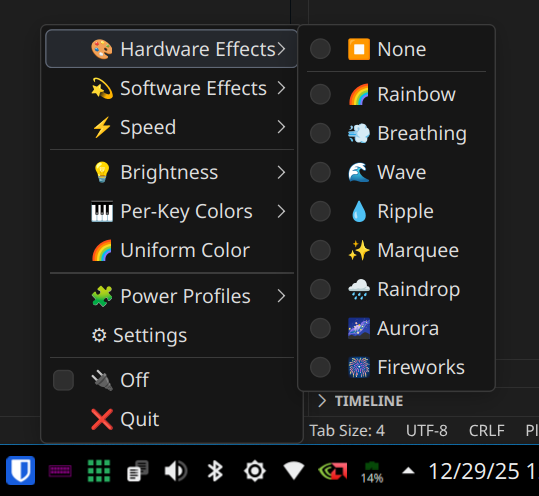
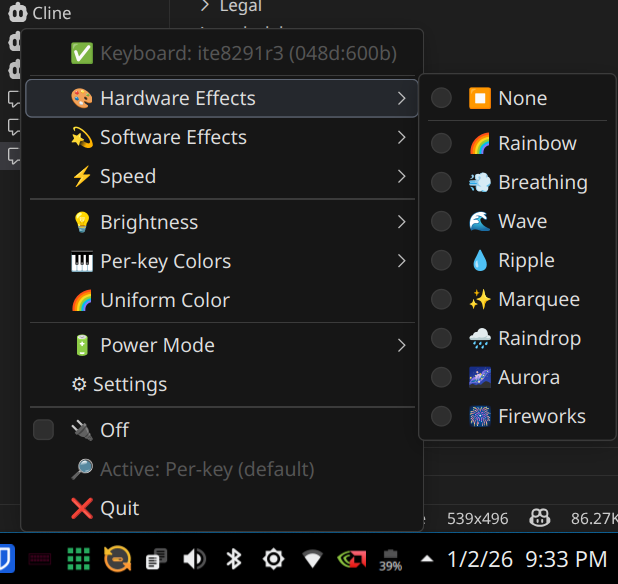
Docs: refresh README and screenshots

diff --git a/README.md b/README.md
@@ -7,14 +7,7 @@ It supports multiple backends:
 - **USB (ITE 8291 / ITE8291R3 family)** on many TongFang rebrands (often per-key RGB).
 - **Sysfs LED backlight devices** (brightness-only or RGB, depending on what your kernel exposes).
 
-It focuses on being practical:
-
-- System tray controls (effects, brightness, speed, off)
-- Per-key coloring with a visual layout overlay
-- A keymap calibrator that maps the keyboard's LED matrix to the visual keys
-- Profile support (so different layouts/revisions can coexist)
-
-If OpenRGB doesn't support your device (or is painful to operate), KeyRGB aims to be the missing tool.
+If OpenRGB doesn’t support your device (or is painful to operate), KeyRGB aims to be a practical alternative.
 
 ## Status
 
@@ -25,15 +18,13 @@ If OpenRGB doesn't support your device (or is painful to operate), KeyRGB aims t
 
 ## Screenshots
 
-![Tray menu](assets/screenshots/tray.png)
+![Tray menu (effects)](assets/screenshots/trayeffects.png)
 
-![Settings](assets/screenshots/settings.png?raw=1&v=0.4.0)
+![Tray menu (power)](assets/screenshots/traypp.png)
+
+![Settings](assets/screenshots/settings.png)
 
 ![Per-key editor](assets/screenshots/perkeyux.png)
-
-![Uniform color](assets/screenshots/uniformcolorux.png)
-
-![Keymap calibrator](assets/screenshots/keymapcalux.png)
 
 ## Quickstart
 
@@ -45,16 +36,13 @@ On Fedora (including Nobara), the recommended path is:
 ./install.sh
 ```
 
-Notes:
+The installer:
 
-- The installer can be run from any working directory (it will switch to the repo root internally).
-- It installs a desktop app launcher (so you can start KeyRGB from your app menu) and an autostart entry (so it starts on login).
-- TUXEDO Control Center (TCC) integration dependencies are optional; the installer will ask.
+- Can be run from any working directory (it switches to the repo root internally).
+- Installs a desktop launcher + autostart entry.
+- Installs the udev rule for USB devices (asks for sudo).
 
-Install modes:
-
-- Default (**recommended**): downloads a single AppImage from GitHub Releases and installs it to `~/.local/bin/keyrgb`.
-- Dev mode: `./install.sh --pip` installs from the current repo checkout via `pip --user -e .`.
+Default mode (**recommended**) installs the AppImage to `~/.local/bin/keyrgb`.
 
 Docs:
 
@@ -97,6 +85,65 @@ Open the per-key editor:
 ```bash
 keyrgb-perkey
 ```
+
+Run diagnostics (for bug reports):
+
+```bash
+keyrgb-diagnostics
+```
+
+## Commands and arguments
+
+### Commands
+
+| Command | What it does |
+| --- | --- |
+| `keyrgb` | Start the tray app. |
+| `keyrgb-perkey` | Open the per-key editor. |
+| `keyrgb-uniform` | Open the uniform color UI. |
+| `keyrgb-calibrate` | Launch the keymap calibrator UI. |
+| `keyrgb-diagnostics` | Print diagnostics JSON to stdout. |
+| `./install.sh` | Install KeyRGB (AppImage/clone/pip). |
+| `./uninstall.sh` | Remove a KeyRGB install created by `install.sh`. |
+
+### `install.sh` arguments
+
+| Argument | Meaning |
+| --- | --- |
+| `--appimage` | Install by downloading the AppImage (default). |
+| `--pip` | Install from the current repo via `pip --user` (editable/dev). |
+| `--clone` | Clone the repo, then install via `pip --user -e` (for local modifications). |
+| `--clone-dir <path>` | Where to clone when using `--clone` (default: `~/.local/share/keyrgb-src`). |
+| `--version <tag>` | Download a specific Git tag (e.g. `v0.8.0`). |
+| `--asset <name>` | AppImage asset filename (default: `keyrgb-x86_64.AppImage`). |
+| `--prerelease` | Allow auto-resolving a prerelease when it contains the newest matching AppImage (useful for debugging). |
+
+### `install.sh` env vars
+
+| Env var | Meaning |
+| --- | --- |
+| `KEYRGB_INSTALL_MODE=appimage\|clone\|pip` | Non-interactive install-mode selection. |
+| `KEYRGB_CLONE_DIR=<path>` | Clone target for `--clone`. |
+| `KEYRGB_ALLOW_PRERELEASE=y\|n` | Allow prereleases when auto-resolving the AppImage tag (default: `n`). |
+| `KEYRGB_INSTALL_POWER_HELPER=y\|n` | Install the lightweight Power Mode helper + polkit rule. |
+| `KEYRGB_INSTALL_TUXEDO=y\|n` | Enable TCC integration deps (mutually exclusive with power helper). |
+| `KEYRGB_INSTALL_TCC_APP=y\|n` | If TCC integration is selected, also attempt `dnf install tuxedo-control-center` (best-effort). |
+
+### `uninstall.sh` arguments
+
+| Argument | Meaning |
+| --- | --- |
+| `--yes` | Don’t prompt (best-effort). |
+| `--purge-config` | Also remove `~/.config/keyrgb`. |
+| `--remove-appimage` | Remove `~/.local/bin/keyrgb` if it looks like an AppImage. |
+
+### Runtime env vars
+
+| Env var | Meaning |
+| --- | --- |
+| `KEYRGB_BACKEND=auto\|ite8291r3\|sysfs-leds` | Force a specific backend (default: auto-detect). |
+| `KEYRGB_DEBUG=1` | Enable verbose debug logging. |
+| `KEYRGB_TK_SCALING=<float>` | Override Tk scaling (useful for DPI/layout quirks). |
 
 ## Backend selection (multi-vendor)
 
@@ -163,12 +210,6 @@ Support is device/firmware dependent. If you want to contribute a new laptop rev
 - **Permission denied / cannot open device**: ensure the udev rule is installed and replug/reboot.
 - **Effects “fight” or flicker**: stop other RGB tools (`openrgb`, Tuxedo tools) so there is a single owner.
 - **Per-key does nothing**: you need a keymap. Open `keyrgb-perkey` and click **Run Keymap Calibrator**.
-
-Diagnostics (for bug reports):
-
-```bash
-keyrgb-diagnostics
-```
 
 ## Settings
 
